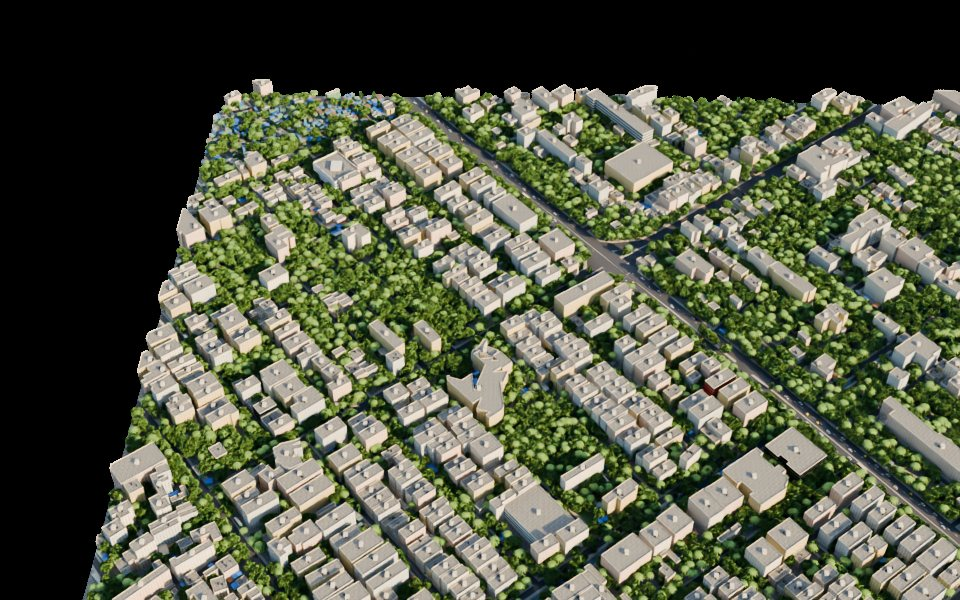
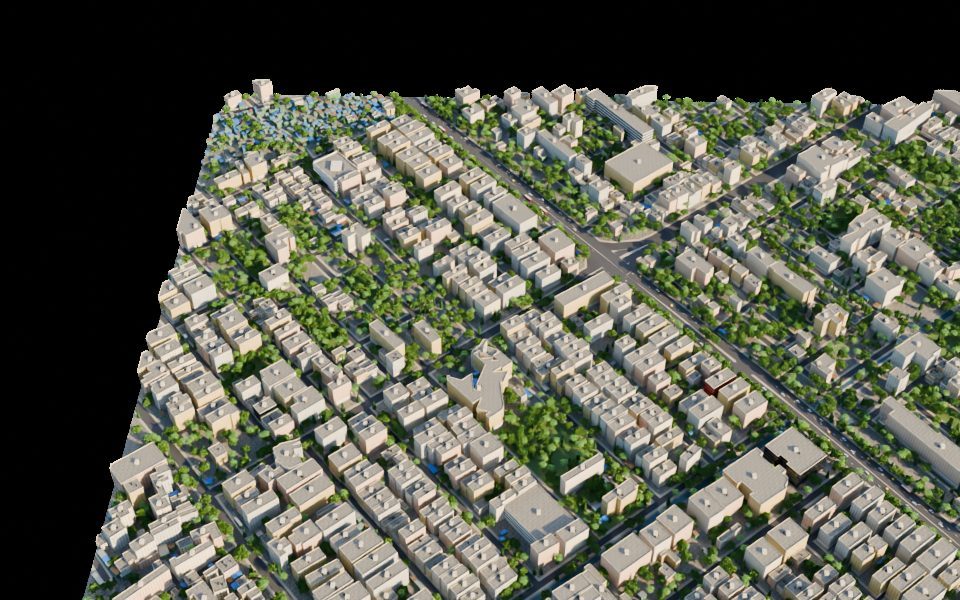
Re-render JindalX option stills; fill download figures in the report
Claude-Session: https://claude.ai/code/session_01JjaGfqrvXnqjHqSB3AzVHZ

Changed region(s): [[0.0625, 0.15, 1.0, 1.0], [0.3125, 0.9, 0.3438, 0.93]]

diff --git a/VISUAL_REALISM_REPORT.md b/VISUAL_REALISM_REPORT.md
@@ -152,7 +152,7 @@ The container has no GPU, so Chromium renders with SwiftShader on the CPU:
 | Frame, walking | 23.5 s | 3.03 s | 7.8× faster |
 | Textures in memory | 59 | 93 | +34 |
 | JS heap | 53 MB | 49 MB | -4 MB |
-| Download, first visit | 7.7 MB | MAGNUS_WIRE | MAGNUS_DELTA |
+| Download, first visit | 7.7 MB | 10.9 MB | +3.2 MB |
 | Page ready (UI interactive) | 1.18 s | 1.82 s | +0.6 s |
 | First 3D frame | 27.5 s | 11.2 s | 2.5× sooner |
 
@@ -168,7 +168,7 @@ The container has no GPU, so Chromium renders with SwiftShader on the CPU:
 | Frame, walking | 18.3 s | 2.16 s | 8.5× faster |
 | Textures in memory | 67 | 72 | +5 |
 | JS heap | 61 MB | 52 MB | -9 MB |
-| Download, first visit | 10.5 MB | A14_WIRE | A14_DELTA |
+| Download, first visit | 10.5 MB | 11.0 MB | +0.5 MB |
 | First 3D frame | 20.5 s | 12.4 s | 1.7× sooner |
 
 ### Where the cost went, and why it is accepted
@@ -185,6 +185,8 @@ The container has no GPU, so Chromium renders with SwiftShader on the CPU:
   - To contain them, normal and roughness maps are saved at JPEG quality 82 and 80, and the leaf
     atlases as 256-colour PNGs with alpha. That took the new textures from 4.6 MB to 2.3 MB with no
     visible change (checked in the landscape view).
+  - Net effect on the first visit: Magnus +3.2 MB (the hero GLB and its textures), A14 +0.5 MB
+    (thinner forest data offsets most of the new textures).
   - All textures are cached for a year (`vercel.json`), so this is a first-visit cost only.
 - **Page ready is 0.6 s later** on Magnus. It is the bigger GLB (the hero and its site). The
   first 3D frame still comes 16 s sooner on this machine, because there is so much less to draw.
